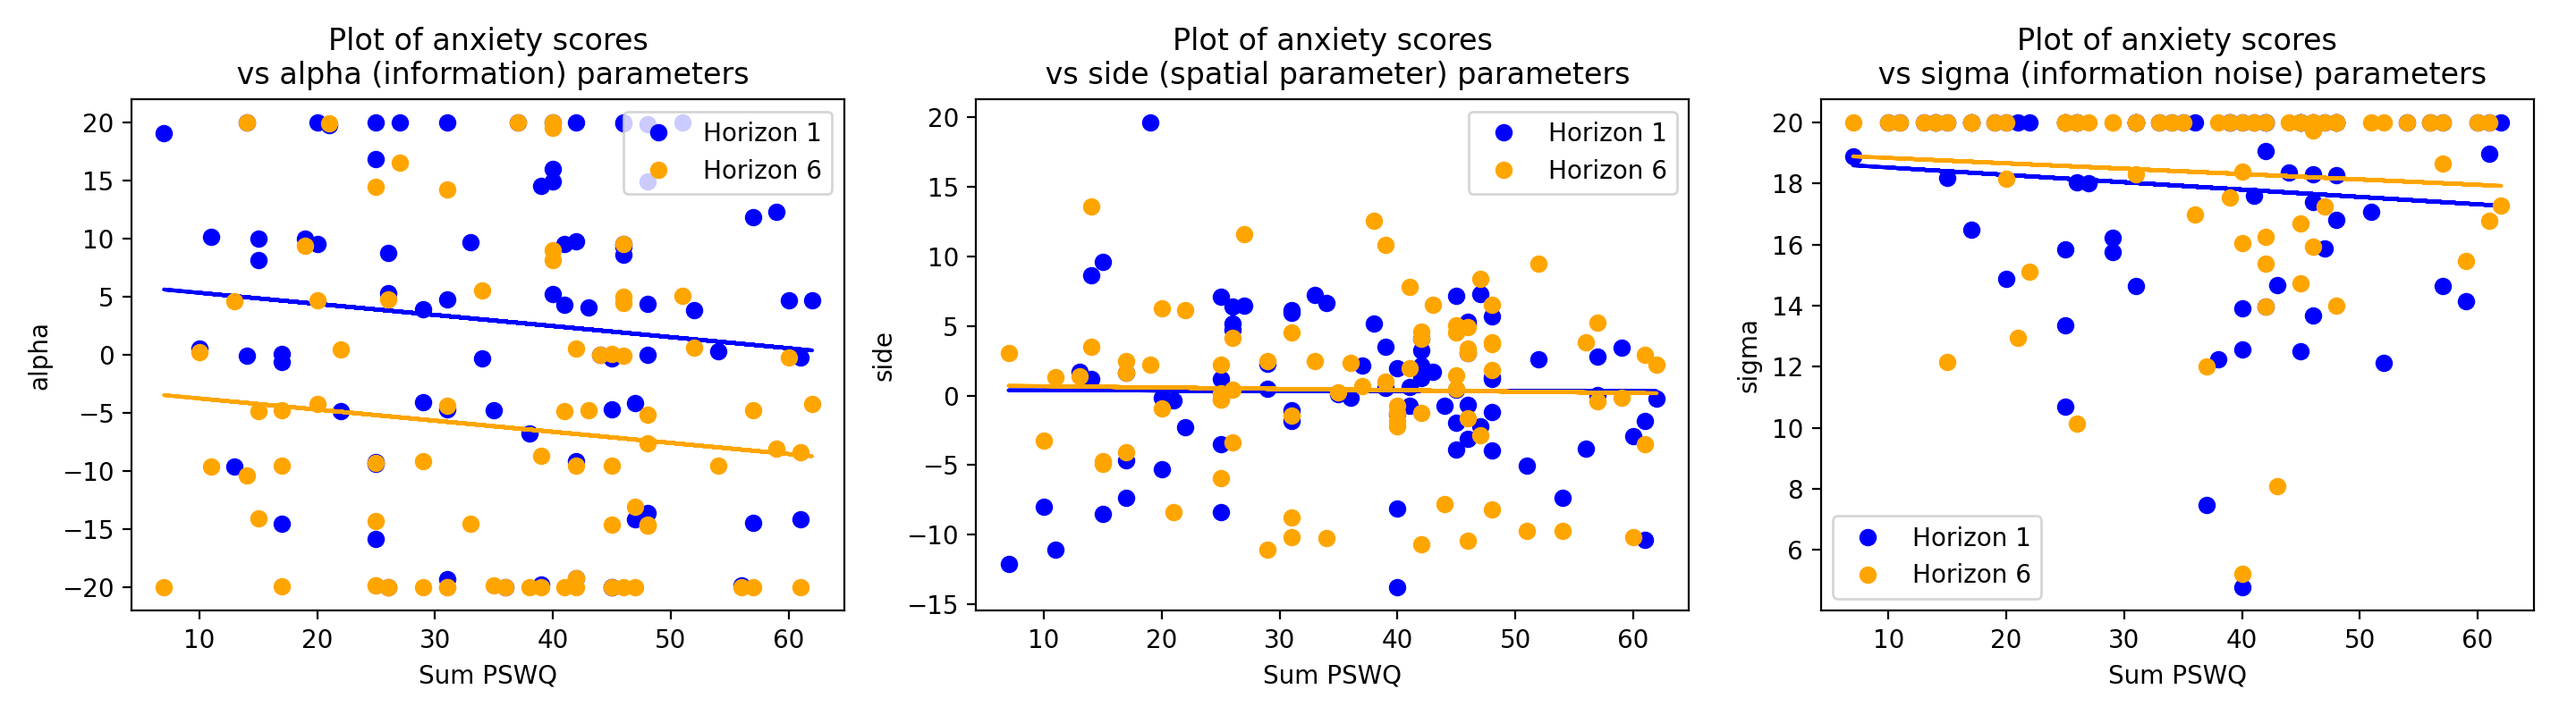
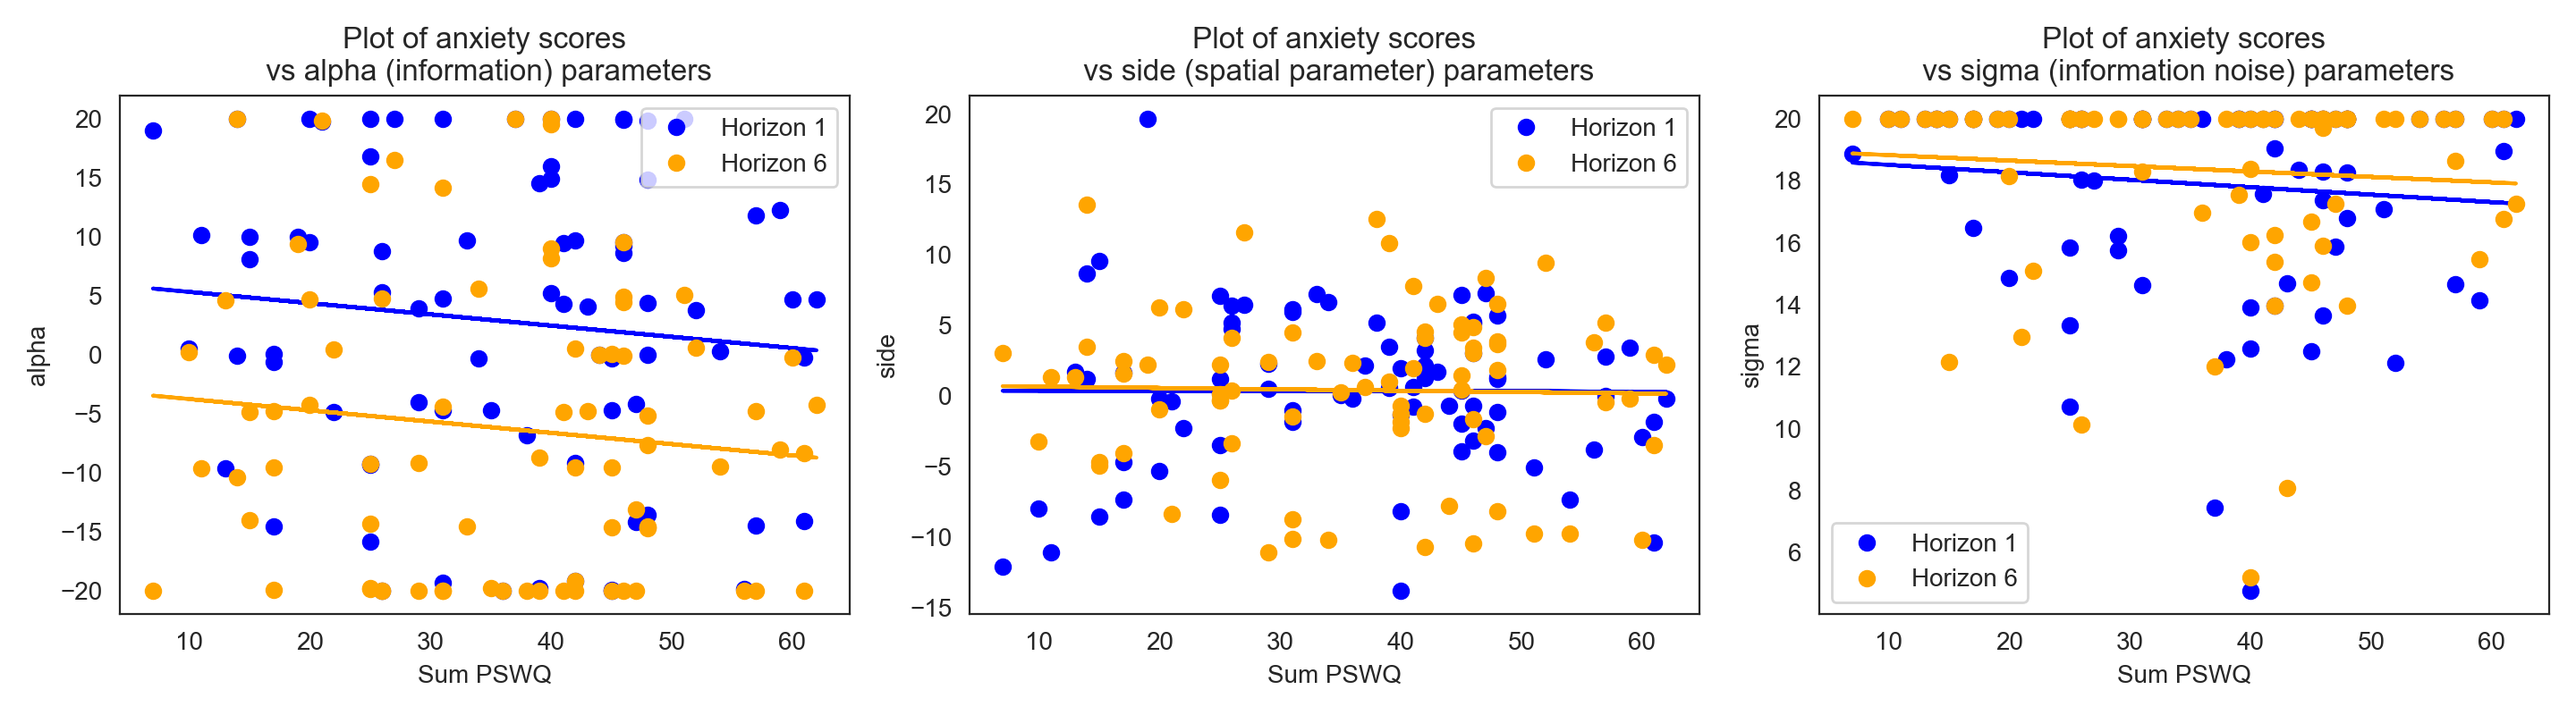
updated plots and params

diff --git a/pilot-v0.2/scripts/regression-stan.py b/pilot-v0.2/scripts/regression-stan.py
@@ -84,9 +84,8 @@ def writeData(params_h1, params_h6, filename):
             if subjects[i] in rejects:
                 continue
             s = subjects[i]
-
-            row1 = [s, 1] + params_h1[i]
-            row2 = [s, 6] + params_h6[i]
+            row1 = [s, 1, params_h1[i][0], params_h1[i][1], params_h1[i][2]]
+            row2 = [s, 6, params_h6[i][0], params_h6[i][1], params_h6[i][2]]
 
             rows = [row1, row2]
             writer.writerows(rows)
@@ -94,7 +93,7 @@ def writeData(params_h1, params_h6, filename):
 
 def main():
     # Compile model.
-    StanModel = load_model('/Users/isabelzaller/Desktop/GitHub/horizons-task/pilot-v0.2/scripts/logistic.stan')
+    StanModel = load_model('/Users/isabelzaller/Desktop/GitHub/horizons-task/pilot-v0.2/scripts/logistic.pkl')
 
     params_h1 = model_h1(StanModel)
     params_h6 = model_h6(StanModel)

diff --git a/pilot-v0.2/scripts/plot-data.py b/pilot-v0.2/scripts/plot-data.py
@@ -105,6 +105,9 @@ def main():
     plot_pswq('../figures,params/params_by_horizon.csv',
               'Plot of anxiety scores\n vs %s parameters',
               'params_by_horizon.png')
+    plot_pswq('../figures,params/params_stan.csv',
+              'Plot of anxiety scores\n vs %s parameters',
+              'params_stan.png')
 
 
 if __name__ == '__main__':
